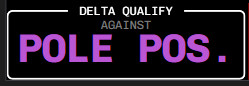
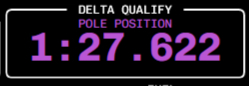
v0.6.0

diff --git a/doc/plugin.md b/doc/plugin.md
@@ -2,8 +2,35 @@
 - [Plugin Tab](#adora-vxxx-tab)
 - [Racing Platforms Tab](#racing-platforms-tab)
 
-## Adora vX.X.X Tab
+## Adora v Tab
 ![Main Tab](/src/images/docs/plugin.jpg)
+
+This is the main section of the Adora Plugin where you can set various parameters.
+### Driver Info
+In the first section, you can set your name, number, and color (by clicking on 'change') to set up a customized idle screen.
+It is only a cosmetic setting to make AdoraDash look nicer and more personalized.
+
+### Settings
+- Pit Strategy Calculation: When you are in the pit lane, with the engine and ignition off, you have an extra MFD showing information about tires and, in the fuel position, details about the fuel strategy relative to a race length set using this slider.
+- Map Zoom: Value (smaller = bigger) of the map in the MFD display.
+- New Lap Overlay: Each time you cross the finish line, an overlay layer appears over your MFD showing specific information. Here you can set for how many seconds this overlay will be shown.
+- Electronics Change Overlay: Each time you change ABS, brake bias, TC, map, and so on in the top-left section of the dashboard, this information will flash to show the change.  You can set for how many seconds you want this info flashing (0 = not appear).
+### MFD
+The MFDs are the sections on the dashboard where, by setting a button or using the touch screen, you can scroll through various screens.
+In this section, you can completely disable a screen (by clicking on the main checkbox), or disable it only for the race and/or qualifying by unchecking the respective option.
+
+For example, if I do not want the screen that shows the track in any session, I can uncheck the value 'MFD Track.'
+However, if I want it in practice and not in qualifying but yes in the race, I can uncheck 'Qualify.'
+It will be visible only in practice and the race.
+- MFD Tyres: It shows tire pressure and temperature, and brake temperature.
+- MFD Last Lap: It shows tire pressure and temperature, and brake temperature of the previous lap (average values).
+- MFD Standings: It shows session standings.
+- MFD Nearby: It shows who is in front and behind us.
+- MFD Delta: A delta time and a small track view.
+- MFD Track: It shows the track and all the cars.
+- MFD Damage: It shows car damage status.
+
+
 
 ## Racing Platforms Tab
 ![Racing Platforms](/src/images/docs/racing_platform.jpg)
@@ -21,3 +48,12 @@ In the URL, you will find the ID, which is the number at the end of the URL.
 If this is set up correctly, once you launch the dashboard, the next race will pop up on the screen.
 
 ![DASHBOARD LFM](/src/images/docs/dashboard/lfm_next_race.jpg)
+
+## Game
+![Game Settings Tab](/src/images/docs/plugin/game_settings.jpg)
+
+Here you can update specific values for each game.
+In detail, you can set the target PSI for a specific game.
+In Generic, you can set a generic value for sims not listed.
+
+Target temperature (dry/wet) is displayed on the dashboard as a target value, and all the tires are aimed at this target, showing the delta in specific MFD displays.

diff --git a/doc/triggers.md b/doc/triggers.md
@@ -7,29 +7,36 @@ To do that, in SimHub, go to the left menu, select Controls and Events.
 Under the Controls section, click on New mapping, and on the left, select your input controller (you can push a button on your controller to directly select it).
 n the left list, select the action to set with this control. Choose the input mode as "Short and Long press" or your preferred option.
 
-
-## Set Actions Button (A and D)
-In SimHub, navigate to DashStudio -> Controls, and assign triggers to the A and D buttons.
+## Set Actions Button (A and D) and Next Screen
+In SimHub, navigate to DashStudio -> Controls and assign triggers to the A and D buttons, and also for the next screen.
 If you are using a DDU, please set up those controls in your DDU interface: Devices -> Control (on your selected device).
 
 - **Action A:** Controls the MFD display, allowing you to scroll between different screens such as Tyres, Map, Damages, and others that will be developed in the coming days.
 
 - **Action D:** Scrolls through Fuel values.
 
-![Actions](/src/images/docs/triggers/action_ad.jpg)
+![Maim](/src/images/docs/triggers/action_ad.jpg)
+![Track](/src/images/docs/triggers/track_pn.jpg)
+![Standing](/src/images/docs/triggers/standing_pn.jpg)
 
- 
+All the controls are also touch screen-enabled if your display supports it.
+
 ## Qualifyng delta 
 <sup>[___free___]</sup>
 You can set up your controller to interact with the delta time in your central top console.
 There is an action named Delta.PolePositionDelta.
 Assign it to your controller to interact during your session with this section.
 
-This feature allows you to display the delta time between your best time or the current pole position.
+This feature allows you to display the delta time between:
+-Your best lap time
+-The current pole position
+-The best time in your category
+
+The time for each of these selections will be shown in this box.
 
 ***This option is valid only in qualifying sessions.***
 
-![Pole](/src/images/docs/triggers/pole.jpg) ![Your Best](/src/images/docs/triggers/yourbest.jpg)
+![Pole](/src/images/docs/triggers/pole.jpg) ![Your Best](/src/images/docs/triggers/yourbest.jpg) ![Category](/src/images/docs/triggers/category.jpg)
 
 ## Standing scrolling standings 
 <sup>[___free___]</sup>
